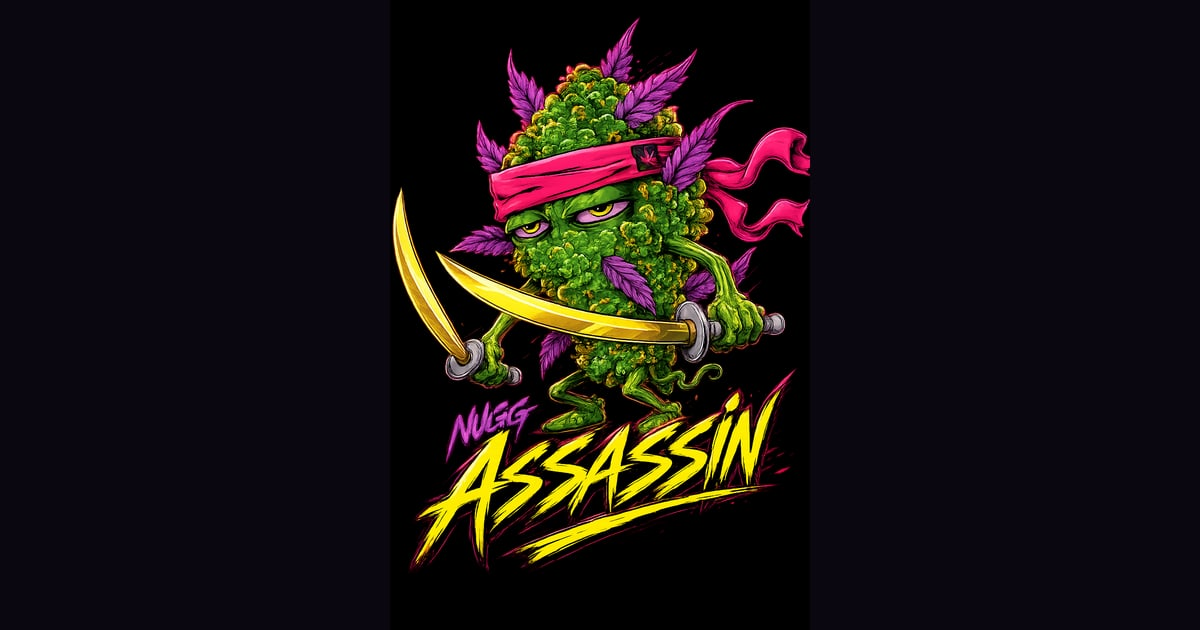
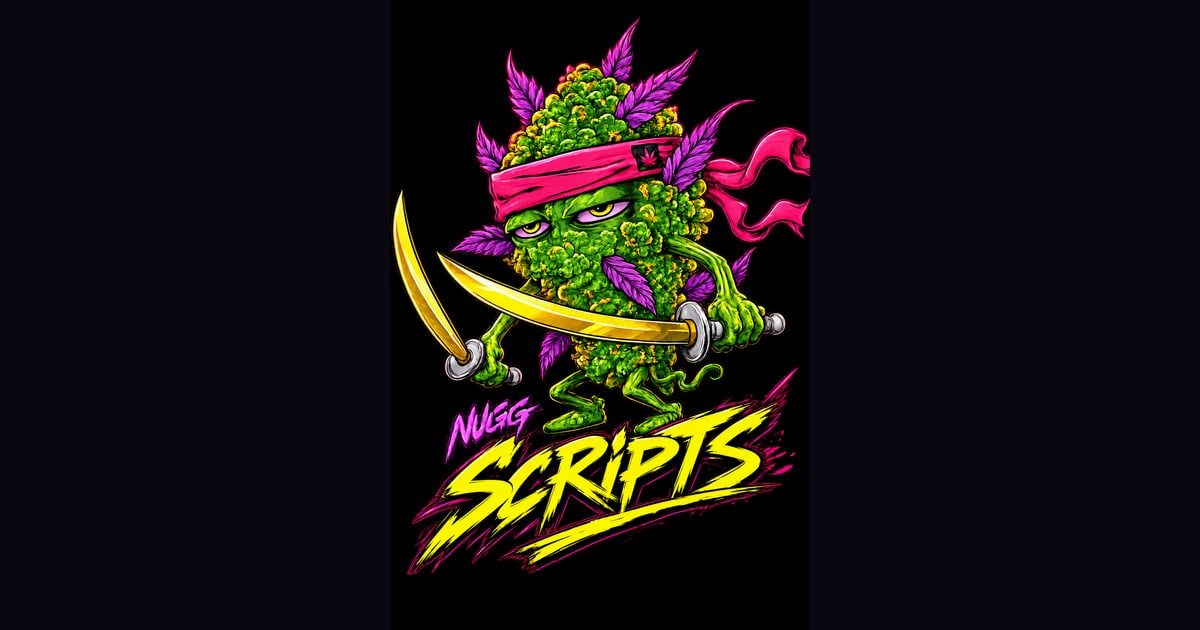
Rebrand the site to NuggScripts
The domain is nuggscripts.com and the logo now carries the NuggScripts
wordmark, so the site name follows.

- Regenerate the navbar mark, favicon and social cards from NuggScriptsLogo.png
- Rename throughout, avoiding the "NuggScripts script" repetition
- Document the apex-domain DNS setup: A/AAAA records for nuggscripts.com,
  since an apex cannot use a CNAME record

Changed region(s): [[0.3083, 0.0603, 0.6783, 0.9048]]

diff --git a/src/styles/custom.css b/src/styles/custom.css
@@ -1,4 +1,4 @@
-/* NuggAssassin docs theme — dark first, keyed to the logo. */
+/* NuggScripts docs theme — dark first, keyed to the logo. */
 
 :root {
   --nugg-magenta: #ff2d95;

diff --git a/README.md b/README.md
@@ -1,6 +1,6 @@
-# NuggAssassin docs
+# NuggScripts docs
 
-The customer-facing documentation site for NuggAssassin FiveM scripts, built with
+The customer-facing documentation site for the NuggScripts FiveM resources, built with
 [Astro Starlight](https://starlight.astro.build) and deployed to GitHub Pages.
 
 ## How content works
@@ -69,15 +69,39 @@ Everything identity-related lives in `site.config.mjs` — GitHub account, repo
 name, domain, Discord, store and YouTube links. Nothing else needs editing when
 one of them changes.
 
-### Moving to a custom domain
+### Moving to nuggscripts.com
 
-1. Set `domain: 'docs.nuggscripts.com'` in `site.config.mjs`. The site URL and base
-   path both follow automatically.
-2. Add `public/CNAME` containing that hostname on one line.
-3. Point a `CNAME` DNS record at `<user>.github.io`.
-4. In the repository's **Settings → Pages**, enter the domain and enable
-   *Enforce HTTPS*.
-5. Run `npm run sync` and rebuild.
+The site is served from the apex, so this needs A/AAAA records — an apex domain
+cannot use a `CNAME` record.
+
+1. Set `domain: 'nuggscripts.com'` in `site.config.mjs`. The site URL and the
+   base path both follow automatically.
+2. Add `public/CNAME` containing `nuggscripts.com` on one line.
+3. At the DNS host, add four A records for `@`, all **DNS-only** (grey cloud on
+   Cloudflare — proxying breaks GitHub's certificate issuance):
+
+   ```
+   185.199.108.153
+   185.199.109.153
+   185.199.110.153
+   185.199.111.153
+   ```
+
+   And, for IPv6, four AAAA records for `@`:
+
+   ```
+   2606:50c0:8000::153
+   2606:50c0:8001::153
+   2606:50c0:8002::153
+   2606:50c0:8003::153
+   ```
+
+   Optionally add a `CNAME` for `www` pointing at `nuggliferp.github.io` so
+   `www.nuggscripts.com` works too.
+4. In the repository's **Settings → Pages**, enter `nuggscripts.com` as the
+   custom domain, wait for the DNS check to pass, then tick *Enforce HTTPS*.
+   The certificate takes a few minutes.
+5. Rebuild and push.
 
 Internal links are written relative to the page, so they survive the base path
 changing from `/nuggscripts-docs` to `/`.

diff --git a/src/content/docs/start/common-mistakes.md b/src/content/docs/start/common-mistakes.md
@@ -1,6 +1,6 @@
 ---
 title: Common install mistakes
-description: The handful of problems behind most NuggAssassin support tickets — wrong folder name, start order, a second script still running — and the fix for each.
+description: The handful of problems behind most NuggScripts support tickets — wrong folder name, start order, a second script still running — and the fix for each.
 sidebar:
   order: 3
 ---
@@ -54,13 +54,13 @@ will be.
 **Symptom:** the resource starts, but nothing persists between restarts.
 
 **Fix:** confirm `oxmysql` is running and that its connection string points at
-the database your framework actually uses. NuggAssassin scripts create the tables
+the database your framework actually uses. NuggScripts resources create the tables
 they own on first start — you do not import SQL by hand — but they cannot do that
 without a working connection.
 
 ## Reading the startup banner
 
-Every NuggAssassin script prints a banner when it starts, naming the framework it
+Every NuggScripts resource prints a banner when it starts, naming the framework it
 detected, the related resources it found, and every problem it spotted in your
 config. It is the fastest diagnosis available and it costs nothing to read.
 

diff --git a/src/content/docs/start/before-you-install.md b/src/content/docs/start/before-you-install.md
@@ -1,11 +1,11 @@
 ---
 title: Before you install
-description: The server artifact, OneSync mode, database and framework every NuggAssassin script assumes — and how to check each one in under a minute.
+description: The server artifact, OneSync mode, database and framework every NuggScripts resource assumes — and how to check each one in under a minute.
 sidebar:
   order: 1
 ---
 
-Five minutes here saves an evening of support tickets. Every NuggAssassin script
+Five minutes here saves an evening of support tickets. Every NuggScripts resource
 assumes the same baseline, and almost every "it will not start" report turns out
 to be one of these four things.
 
@@ -62,7 +62,7 @@ you do not tell them.
 
 ## What you do not need
 
-- **`nugg_bridge` is not required.** Some NuggAssassin scripts use it, some carry
+- **`nugg_bridge` is not required.** Some NuggScripts resources use it, some carry
   their own framework layer instead. Where a script does not use it, installing
   it changes nothing and removing it breaks nothing. Each script's page says
   which applies.

diff --git a/src/content/docs/start/downloading.md b/src/content/docs/start/downloading.md
@@ -1,6 +1,6 @@
 ---
 title: Downloading your purchase
-description: Where your NuggAssassin script files live after buying, how to unzip them without breaking the folder name, and where they go on the server.
+description: Where your NuggScripts files live after buying, how to unzip them without breaking the folder name, and where they go on the server.
 sidebar:
   order: 2
 ---
